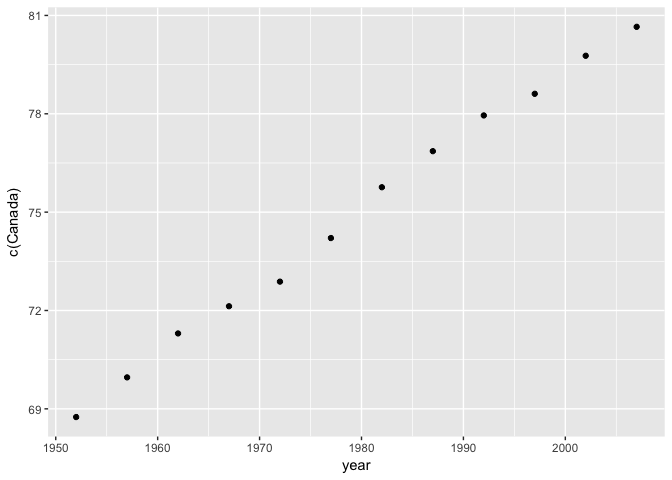
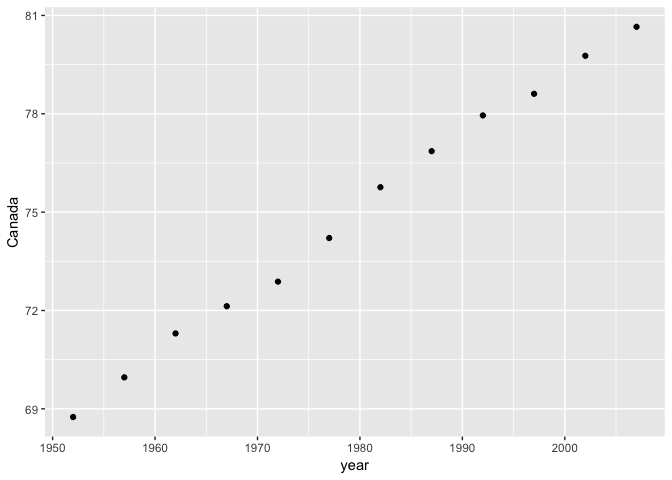
final commit hopefully

diff --git a/hw04/hw04_tidy_data_and_joins.md b/hw04/hw04_tidy_data_and_joins.md
@@ -64,14 +64,14 @@ I wanted to change the column names to something more informative and found that
 
 #### Scatterplot of life expectancy: Canada vs Indonesia
 
-After forming the new dataset, I noticed right away the huge difference in life expectancies between Canada and Indonesia, especially in the 1950's-1970's. I thought this would be a good example to plot and visualize how life expectancies for the two countries changed over time.
+After forming the new dataset, I noticed right away the huge difference in life expectancies between Canada and Indonesia, especially in the 1950's-1970's. I thought this would be a good example to plot and visualize how life expectancies for the two countries changed over time. I wasn't sure how to do this initially using this new dataframe, as now each country had it's own row and I couldn't simply plot by year and life expectancy and then filter by country...
 
 **Attempt \#1**
 
 ``` r
 lifeExp_year %>% 
   select(year, Canada, Indonesia) %>% 
-  ggplot(aes(x = year, y = c(Canada))) +
+  ggplot(aes(x = year, y = Canada)) +
          geom_point()
 ```
 
@@ -80,6 +80,8 @@ lifeExp_year %>%
 This didn't work, it only plotted Canada and not Indonesia.
 
 **Attempt \#2**
+
+I added another geom\_point layer for Indonesia. This can't be the best way to do this, but it's what worked...I'd be interested in finding out if there's a simpler way to approach this problem.
 
 ``` r
 ggplot(lifeExp_year, aes(year)) + 
@@ -109,25 +111,29 @@ Create a second data frame, complementary to Gapminder. Join this with (part of)
 
 One row per country, a country variable and one or more variables with extra info, such as language spoken, NATO membership, national animal, or capitol city.
 
+I decided to take some random countries that came to my mind and look at the variables I'm personally interested in: national animal and national language(s).
+
 ``` r
 country <- c("Bangladesh","Canada","Guatemala","India","Papua New Guinea","Romania","Russia","Qatar","Somalia")
 nat_animal <- c("Bengal Tiger","Beaver","Quetzal","King Cobra","Dugong","Lynx","Eurasian Brown Bear","Arabian Oryx","Leopard")
-nat_language <- c("Bengali", "English, French", "Spanish", "Hindi", "Hiri Motu", "Romanian", "Russian", "Arabic", "Somali") 
+nat_language <- c("Bengali", "English, French", "Spanish", "Hindi, English", "Hiri Motu, Tok Pisin, English", "Romanian", "Russian, Azerbaijani, Ukranian, Chuvash, Tatar, Tuvin", "Arabic", "Somali, Arabic") 
 activity_1 <- data.frame(country, nat_animal, nat_language)
 knitr::kable(activity_1)
 ```
 
-| country          | nat\_animal         | nat\_language   |
-|:-----------------|:--------------------|:----------------|
-| Bangladesh       | Bengal Tiger        | Bengali         |
-| Canada           | Beaver              | English, French |
-| Guatemala        | Quetzal             | Spanish         |
-| India            | King Cobra          | Hindi           |
-| Papua New Guinea | Dugong              | Hiri Motu       |
-| Romania          | Lynx                | Romanian        |
-| Russia           | Eurasian Brown Bear | Russian         |
-| Qatar            | Arabian Oryx        | Arabic          |
-| Somalia          | Leopard             | Somali          |
+| country          | nat\_animal         | nat\_language                                         |
+|:-----------------|:--------------------|:------------------------------------------------------|
+| Bangladesh       | Bengal Tiger        | Bengali                                               |
+| Canada           | Beaver              | English, French                                       |
+| Guatemala        | Quetzal             | Spanish                                               |
+| India            | King Cobra          | Hindi, English                                        |
+| Papua New Guinea | Dugong              | Hiri Motu, Tok Pisin, English                         |
+| Romania          | Lynx                | Romanian                                              |
+| Russia           | Eurasian Brown Bear | Russian, Azerbaijani, Ukranian, Chuvash, Tatar, Tuvin |
+| Qatar            | Arabian Oryx        | Arabic                                                |
+| Somalia          | Leopard             | Somali, Arabic                                        |
+
+Then I made another dataframe from the original Gapminder dataset, filtering by the countries included in my first dataframe and summarizing by other variables mean GDP per capita and mean life expectancy.
 
 ``` r
 gapminder_2 <- gapminder %>% 
@@ -161,19 +167,19 @@ leftjoin <- left_join(activity_1, gapminder_2, by="country")
 knitr::kable(leftjoin)
 ```
 
-| country          | nat\_animal         | nat\_language   |  mean\_gdpPercap|  mean\_lifeExp|
-|:-----------------|:--------------------|:----------------|----------------:|--------------:|
-| Bangladesh       | Bengal Tiger        | Bengali         |         817.5588|       49.83408|
-| Canada           | Beaver              | English, French |       22410.7463|       74.90275|
-| Guatemala        | Quetzal             | Spanish         |        4015.4028|       56.72942|
-| India            | King Cobra          | Hindi           |        1057.2963|       53.16608|
-| Papua New Guinea | Dugong              | Hiri Motu       |               NA|             NA|
-| Romania          | Lynx                | Romanian        |        7300.1700|       68.29067|
-| Russia           | Eurasian Brown Bear | Russian         |               NA|             NA|
-| Qatar            | Arabian Oryx        | Arabic          |               NA|             NA|
-| Somalia          | Leopard             | Somali          |        1140.7933|       40.98867|
+| country          | nat\_animal         | nat\_language                                         |  mean\_gdpPercap|  mean\_lifeExp|
+|:-----------------|:--------------------|:------------------------------------------------------|----------------:|--------------:|
+| Bangladesh       | Bengal Tiger        | Bengali                                               |         817.5588|       49.83408|
+| Canada           | Beaver              | English, French                                       |       22410.7463|       74.90275|
+| Guatemala        | Quetzal             | Spanish                                               |        4015.4028|       56.72942|
+| India            | King Cobra          | Hindi, English                                        |        1057.2963|       53.16608|
+| Papua New Guinea | Dugong              | Hiri Motu, Tok Pisin, English                         |               NA|             NA|
+| Romania          | Lynx                | Romanian                                              |        7300.1700|       68.29067|
+| Russia           | Eurasian Brown Bear | Russian, Azerbaijani, Ukranian, Chuvash, Tatar, Tuvin |               NA|             NA|
+| Qatar            | Arabian Oryx        | Arabic                                                |               NA|             NA|
+| Somalia          | Leopard             | Somali, Arabic                                        |        1140.7933|       40.98867|
 
-We can see that the rows for Papua New Guinea, Russia and Qatar all have NA's, implying that Gapminder does not contain data for those countries.
+We can see that the rows for Papua New Guinea, Russia and Qatar all have NA's, implying that Gapminder does not contain data for those countries, but they are kept as they exist in the first dataframe (activity\_1).
 
 #### Inner join
 
@@ -195,9 +201,9 @@ knitr::kable(innerjoin)
 | Bangladesh | Bengal Tiger | Bengali         |         817.5588|       49.83408|
 | Canada     | Beaver       | English, French |       22410.7463|       74.90275|
 | Guatemala  | Quetzal      | Spanish         |        4015.4028|       56.72942|
-| India      | King Cobra   | Hindi           |        1057.2963|       53.16608|
+| India      | King Cobra   | Hindi, English  |        1057.2963|       53.16608|
 | Romania    | Lynx         | Romanian        |        7300.1700|       68.29067|
-| Somalia    | Leopard      | Somali          |        1140.7933|       40.98867|
+| Somalia    | Leopard      | Somali, Arabic  |        1140.7933|       40.98867|
 
 The Gapminder dataset does not have data for the countries Papua New Guinea, Russia or Qatar. This is why there are 3 less rows than the `left_join` output (72 rows versus 75).
 
@@ -221,13 +227,13 @@ knitr::kable(semijoin)
 | Bangladesh | Bengal Tiger | Bengali         |
 | Canada     | Beaver       | English, French |
 | Guatemala  | Quetzal      | Spanish         |
-| India      | King Cobra   | Hindi           |
+| India      | King Cobra   | Hindi, English  |
 | Romania    | Lynx         | Romanian        |
-| Somalia    | Leopard      | Somali          |
+| Somalia    | Leopard      | Somali, Arabic  |
 
 #### Anti join
 
-This returns all rows from the gapminder dataset where there are NOT matching values in the activity\_1 dataset, and it keeps just the columns from activity\_1.
+This is the opposite of `semi_join`, and returns all rows from the gapminder dataset where there are NOT matching values in the activity\_1 dataset, and it keeps just the columns from activity\_1.
 
 ``` r
 antijoin <- anti_join(activity_1, gapminder_2, by="country")
@@ -240,11 +246,11 @@ antijoin <- anti_join(activity_1, gapminder_2, by="country")
 knitr::kable(antijoin)
 ```
 
-| country          | nat\_animal         | nat\_language |
-|:-----------------|:--------------------|:--------------|
-| Papua New Guinea | Dugong              | Hiri Motu     |
-| Russia           | Eurasian Brown Bear | Russian       |
-| Qatar            | Arabian Oryx        | Arabic        |
+| country          | nat\_animal         | nat\_language                                         |
+|:-----------------|:--------------------|:------------------------------------------------------|
+| Papua New Guinea | Dugong              | Hiri Motu, Tok Pisin, English                         |
+| Russia           | Eurasian Brown Bear | Russian, Azerbaijani, Ukranian, Chuvash, Tatar, Tuvin |
+| Qatar            | Arabian Oryx        | Arabic                                                |
 
 I guess this can be useful for when you have massive datasets and you need to know what values (in this case countries) are not common.
 
@@ -263,19 +269,19 @@ fulljoin <- full_join(activity_1, gapminder_2, by="country")
 knitr::kable(fulljoin)
 ```
 
-| country          | nat\_animal         | nat\_language   |  mean\_gdpPercap|  mean\_lifeExp|
-|:-----------------|:--------------------|:----------------|----------------:|--------------:|
-| Bangladesh       | Bengal Tiger        | Bengali         |         817.5588|       49.83408|
-| Canada           | Beaver              | English, French |       22410.7463|       74.90275|
-| Guatemala        | Quetzal             | Spanish         |        4015.4028|       56.72942|
-| India            | King Cobra          | Hindi           |        1057.2963|       53.16608|
-| Papua New Guinea | Dugong              | Hiri Motu       |               NA|             NA|
-| Romania          | Lynx                | Romanian        |        7300.1700|       68.29067|
-| Russia           | Eurasian Brown Bear | Russian         |               NA|             NA|
-| Qatar            | Arabian Oryx        | Arabic          |               NA|             NA|
-| Somalia          | Leopard             | Somali          |        1140.7933|       40.98867|
+| country          | nat\_animal         | nat\_language                                         |  mean\_gdpPercap|  mean\_lifeExp|
+|:-----------------|:--------------------|:------------------------------------------------------|----------------:|--------------:|
+| Bangladesh       | Bengal Tiger        | Bengali                                               |         817.5588|       49.83408|
+| Canada           | Beaver              | English, French                                       |       22410.7463|       74.90275|
+| Guatemala        | Quetzal             | Spanish                                               |        4015.4028|       56.72942|
+| India            | King Cobra          | Hindi, English                                        |        1057.2963|       53.16608|
+| Papua New Guinea | Dugong              | Hiri Motu, Tok Pisin, English                         |               NA|             NA|
+| Romania          | Lynx                | Romanian                                              |        7300.1700|       68.29067|
+| Russia           | Eurasian Brown Bear | Russian, Azerbaijani, Ukranian, Chuvash, Tatar, Tuvin |               NA|             NA|
+| Qatar            | Arabian Oryx        | Arabic                                                |               NA|             NA|
+| Somalia          | Leopard             | Somali, Arabic                                        |        1140.7933|       40.98867|
 
-We can see that the values for the three countries not included in the gapminder dataset have 'NA' values as they cannot be populated by this dataset.
+We can see that the values for the three countries not included in the gapminder dataset have 'NA' values as they cannot be populated by this dataset. In this case, the output is the same as the `left_join` output, however if we were to use the entire Gapminder dataset instead of the smaller gapminder\_2 dataframe I made, the output would be much larger.
 
 #### One row per continent, a continent variable and one or more variables with extra info, such as northern versus southern hemisphere.
 
@@ -286,17 +292,16 @@ pop2007 <- gapminder %>%
   filter(year==2007) %>% 
   group_by(continent) %>% 
   summarise(Average_Population=mean(pop))
-pop2007
+knitr::kable(pop2007)
 ```
 
-    ## # A tibble: 5 x 2
-    ##   continent Average_Population
-    ##      <fctr>              <dbl>
-    ## 1    Africa           17875763
-    ## 2  Americas           35954847
-    ## 3      Asia          115513752
-    ## 4    Europe           19536618
-    ## 5   Oceania           12274974
+| continent |  Average\_Population|
+|:----------|--------------------:|
+| Africa    |             17875763|
+| Americas  |             35954847|
+| Asia      |            115513752|
+| Europe    |             19536618|
+| Oceania   |             12274974|
 
 I then had to make a dataframe for continent variables (west or east of Atlantic Ocean) - this is kind of silly in my opinion but I couldn't think of many suitable continent-wide variables where continents weren't cut off in some places.
 
@@ -320,23 +325,21 @@ Now we join this new dataframe with the continent variable with the gapminder da
 
 ``` r
 innerjoin2 <- inner_join(pop2007, ocean, by="continent")
-knitr::kable(innerjoin2)
+knitr::kable(innerjoin2, col.names = c("Continent", "Avg Population (2007)", "Position to Atlantic Ocean"))
 ```
 
-| continent |  Average\_Population| atlantic\_ocean |
-|:----------|--------------------:|:----------------|
-| Africa    |             17875763| East            |
-| Americas  |             35954847| West            |
-| Asia      |            115513752| East            |
-| Europe    |             19536618| West            |
-| Oceania   |             12274974| West            |
+| Continent |  Avg Population (2007)| Position to Atlantic Ocean |
+|:----------|----------------------:|:---------------------------|
+| Africa    |               17875763| East                       |
+| Americas  |               35954847| West                       |
+| Asia      |              115513752| East                       |
+| Europe    |               19536618| West                       |
+| Oceania   |               12274974| West                       |
 
 Reporting my process
 --------------------
 
-How do I add 2 national languages to certain countries? YES - put it inside the parentheses for the languages. However, this becomes a problem if I need to filter (i.e. I would need to filter by "English,""", "English, French"" or """, French""). I'm not sure if there's an easier way to do this, maybe add another column for other national languages? But there are some countries like South Africa that have 11 national languages - I'm interested in seeing if there is a way around this. Join two datasets with different levels
-
-Again, I struggled to use wide format data in ggplot, whereas I know the exact same graph could have been made using the long data in far less time (and also allow for more manipulation). I'm wondering what data might be better to plot in wide format...?
+Again, I struggled to use wide format data in ggplot, whereas I know the exact same graph could have been made using the long data in far less time (and also allow for more manipulation). I'm wondering what data might be better to plot in wide format...? I also wasn't sure if I was able to add multiple national languages, however after trying it out (by just using a comma to separate the languages within the ""), it worked. I can see this being a problem if I would need to filter by language though - i.e. I would need to filter by "English,""", "English, French"" or """, French""). I'm not sure if there's an easier way to do this, maybe add another column for other national languages? But there are some countries like South Africa that have 11 national languages - I'm interested in seeing if there is a way around this.
 
 #### Useful Links
 

diff --git a/hw04/README.md b/hw04/README.md
@@ -1,6 +1,5 @@
 # README
-Aisha Uduman  
-10/9/2017  
+
 
 **Click [here](https://github.com/auduman/stat545-hw-uduman-aisha) to go back my main homework page.** 
 
